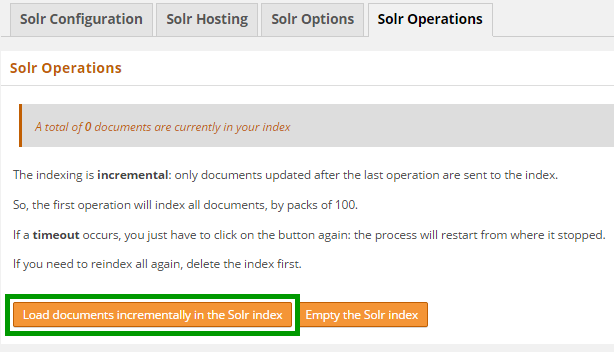
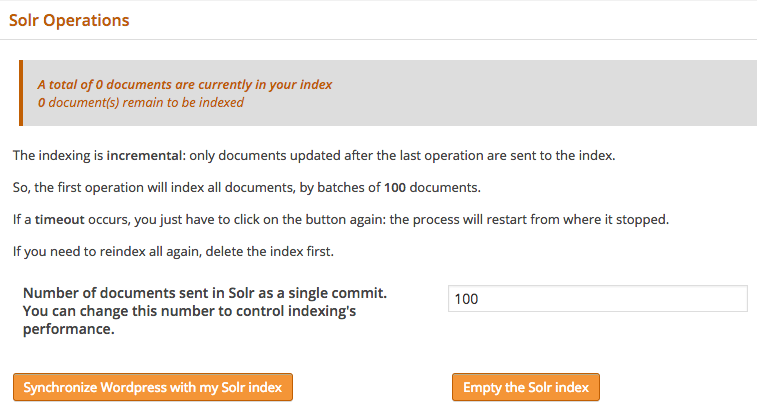
tech edits complete

diff --git a/docs/websites/cms/turbocharge-wordpress-search-with-solr.md b/docs/websites/cms/turbocharge-wordpress-search-with-solr.md
@@ -456,37 +456,10 @@ If Solr is installed on a different server from WordPress, repeat the test from 
 
 ## Install WPSolr plugin
 
-1. Go to the plugin's page at [https://wordpress.org/plugins/wpsolr-search-engine/](https://wordpress.org/plugins/wpsolr-search-engine/) and copy its link address as shown below:
+1. Install the [WPSolr](https://wordpress.org/plugins/wpsolr-search-engine/) WordPress plugin, either through your WordPress admin console, or by donwloading the files into your `plugins/` directory.
 
-    [![WPSolr plugin link](/docs/assets/wpsolr_wpsolr_plugin_link_resized.png)](/docs/assets/wpsolr_wpsolr_plugin_link.png)
 
-2. Next, in the ssh session to the Linode server where you're installing Solr, use **wget** command to download the plugin file from copied address.
-
-        wget <copied-url>
-
-    For example:
-
-        wget https://downloads.wordpress.org/plugin/wpsolr-search-engine.1.8.zip
-
-3. Extract the zip file:
-
-        unzip wpsolr-search-engine.1.8.zip
-
-4. Move the extracted plugin directory to WordPress plugins directory:
-
-    + On Debian:
-
-            mv wpsolr-search-engine /var/www/wordpress/wp-content/plugins/
-
-    + On Ubuntu:
- 
-            mv wpsolr-search-engine /var/www/html/wordpress/wp-content/plugins/
-
-5. Next, log into WordPress Administration page and go to **Installed Plugins** page:
-
-    [![Installed Plugins](/docs/assets/wpsolr_admin_goto_plugins_resized.png)](/docs/assets/wpsolr_admin_goto_plugins.png)
-
-6. In the **Plugins** page, activate the plugin named **Enterprise Search in seconds**:
+2. In the **Plugins** page, activate the plugin named **Enterprise Search in seconds**:
 
     [![Activate WPSolr plugin](/docs/assets/wpsolr_activate_wpsolr_plugin_resized.png)](/docs/assets/wpsolr_activate_wpsolr_plugin.png)
 
@@ -535,7 +508,7 @@ If Solr is installed on a different server from WordPress, repeat the test from 
 
 5. Press the **Check Solr Status, then Save** button. If everything is set correctly, it'll show a green tick mark.
 
-6. The plugin then takes you to the **Indexing Options** page:
+6. Next, click on the  **Solr Options** tab:
 
     [![WPSolr Indexing Options](/docs/assets/wpsolr_wpsolr_indexing_options_resized.png)](/docs/assets/wpsolr_wpsolr_indexing_options.png)
 
@@ -621,7 +594,7 @@ If Solr is installed on a different server from WordPress, repeat the test from 
 
     [![WPSolr Faceting](/docs/assets/wpsolr_search_results_facets_resized.png)](/docs/assets/wpsolr_search_results_facets.png)
 
-11. Next, go to **Solr Operations** tab and click the **Load documents incrementally in the Solr index** button. 
+11. Next, go to **Solr Operations** tab and click the **Synchronize Wordpress with my Solr index** button. 
 
     Whenever you publish a new post or page or attachment, come to this page and click this button to update the search data.
 
